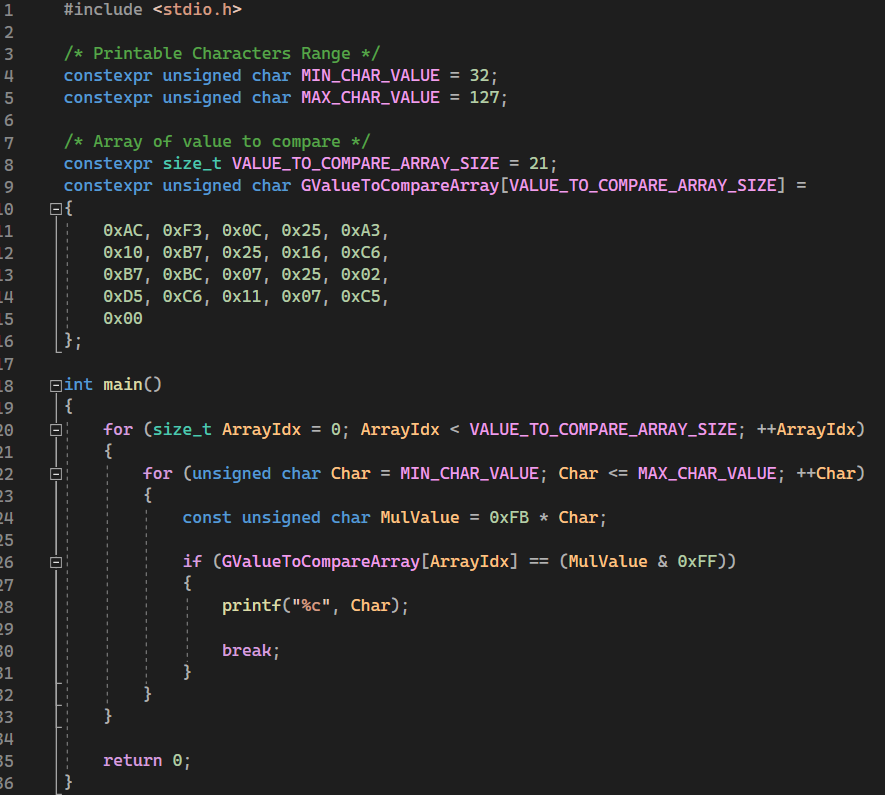
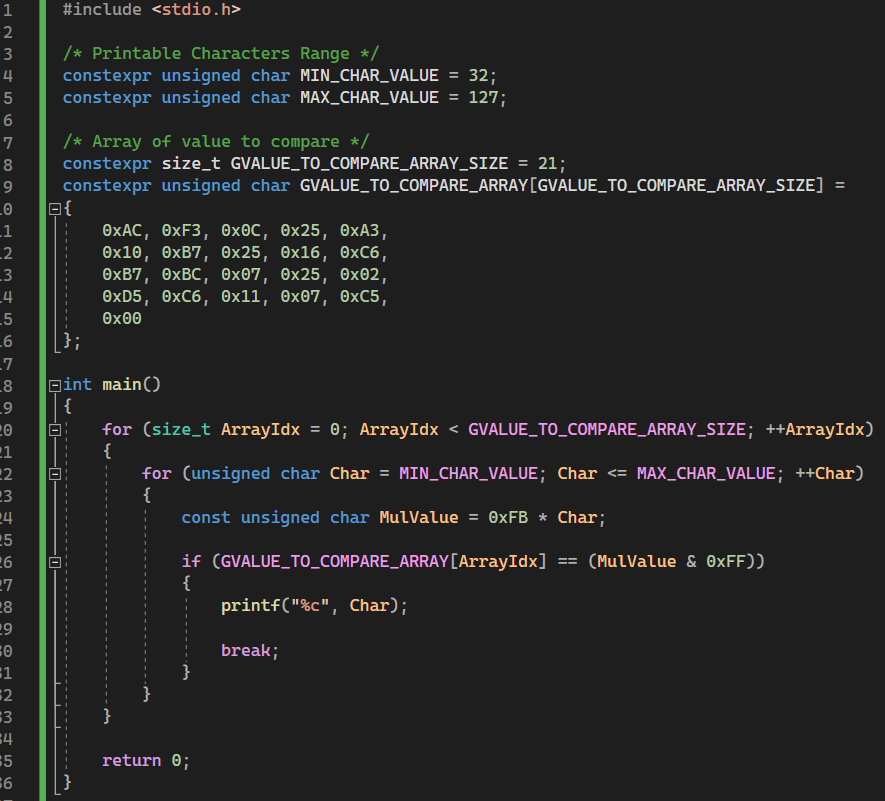
Changed variable name.

diff --git a/Problem5/rev-basic-8.cpp b/Problem5/rev-basic-8.cpp
@@ -5,8 +5,8 @@ constexpr unsigned char MIN_CHAR_VALUE = 32;
 constexpr unsigned char MAX_CHAR_VALUE = 127;
 
 /* Array of value to compare */
-constexpr size_t VALUE_TO_COMPARE_ARRAY_SIZE = 21;
-constexpr unsigned char GValueToCompareArray[VALUE_TO_COMPARE_ARRAY_SIZE] =
+constexpr size_t GVALUE_TO_COMPARE_ARRAY_SIZE = 21;
+constexpr unsigned char GVALUE_TO_COMPARE_ARRAY[GVALUE_TO_COMPARE_ARRAY_SIZE] =
 {
 	0xAC, 0xF3, 0x0C, 0x25, 0xA3,
 	0x10, 0xB7, 0x25, 0x16, 0xC6,
@@ -17,13 +17,13 @@ constexpr unsigned char GValueToCompareArray[VALUE_TO_COMPARE_ARRAY_SIZE] =
 
 int main()
 {
-	for (size_t ArrayIdx = 0; ArrayIdx < VALUE_TO_COMPARE_ARRAY_SIZE; ++ArrayIdx)
+	for (size_t ArrayIdx = 0; ArrayIdx < GVALUE_TO_COMPARE_ARRAY_SIZE; ++ArrayIdx)
 	{
 		for (unsigned char Char = MIN_CHAR_VALUE; Char <= MAX_CHAR_VALUE; ++Char)
 		{
 			const unsigned char MulValue = 0xFB * Char;
 
-			if (GValueToCompareArray[ArrayIdx] == (MulValue & 0xFF))
+			if (GVALUE_TO_COMPARE_ARRAY[ArrayIdx] == (MulValue & 0xFF))
 			{
 				printf("%c", Char);
 
@@ -31,7 +31,7 @@ int main()
 			}
 		}
 	}
-	
+
 	return 0;
 }
 
